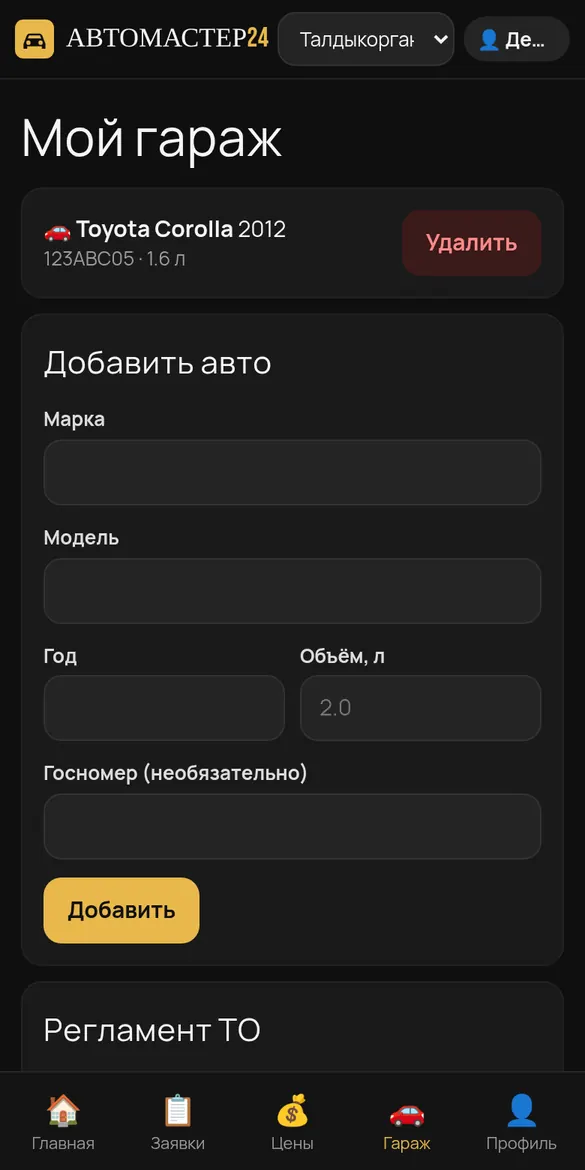
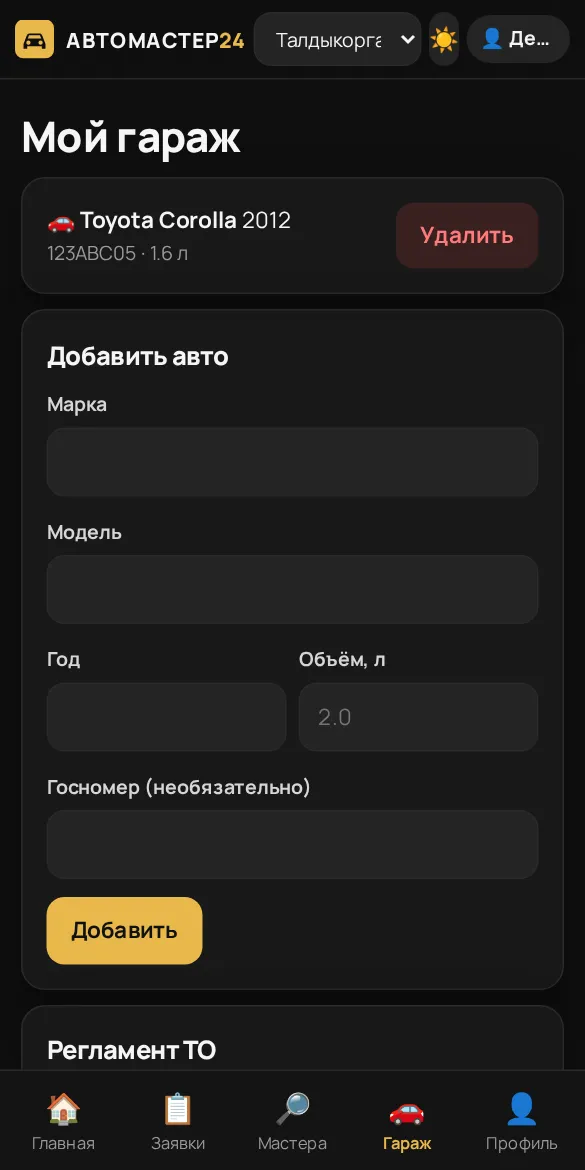
Сайт с пояснениями: новые возможности (фото, чат, страница мастера, фильтры, установка как приложение), новые скриншоты, FAQ

diff --git a/index.html b/index.html
@@ -341,10 +341,10 @@ footer nav{display:flex;flex-wrap:wrap;gap:8px 20px}
         <div class="panel" id="p-cl" role="tabpanel" aria-labelledby="t-cl">
           <ol class="steps">
             <li class="step"><span class="n">1</span><div><h3>Войдите через Telegram <button class="tip" type="button" data-tip="Кнопка <b>«Войти»</b> вверху сайта. Telegram передаёт только имя, username и ID аккаунта — пароль не нужен. Затем в профиле укажите город и телефон.">?</button></h3><p>Один раз укажите свой город и телефон — их увидит только мастер, который примет вашу заявку.</p></div></li>
-            <li class="step"><span class="n">2</span><div><h3>Выберите услугу и опишите проблему</h3><p>Например: «стук спереди справа на кочках». Можно выбрать машину из своего <button class="term" type="button" data-tip="<b>Гараж</b> — ваши автомобили на сайте. Добавьте машину один раз, и она будет подставляться в заявки автоматически.">гаража</button>, чтобы не вводить её каждый раз.</p></div></li>
+            <li class="step"><span class="n">2</span><div><h3>Выберите услугу, опишите проблему и приложите фото</h3><p>Например: «стук спереди справа на кочках» — или просто напишите это в поиске на главной, сайт подскажет нужную услугу. До 5 фото помогут мастеру сразу оценить работу. Для СТО можно выбрать день и время. Можно выбрать машину из своего <button class="term" type="button" data-tip="<b>Гараж</b> — ваши автомобили на сайте. Добавьте машину один раз, и она будет подставляться в заявки автоматически.">гаража</button>, чтобы не вводить её каждый раз.</p></div></li>
             <li class="step"><span class="n">3</span><div><h3>Отправьте одному мастеру или <button class="term" type="button" data-tip="<b>«Всем в городе»</b> — заявку увидят все подходящие исполнители вашего города, и первый свободный её примет. Или выберите конкретное СТО из каталога, если уже знаете, куда ехать.">всем в городе</button></h3><p>Нажмите <span class="ui">Отправить заявку</span>. Заявка активна 60 минут (запчасти — 3 часа).</p></div></li>
-            <li class="step"><span class="n">4</span><div><h3>Мастер принимает — вы видите его контакты</h3><p>Статус заявки меняется на «В работе», появляются имя, телефон и адрес мастера. Если за 5 минут никто не ответил, сайт покажет список контактов, чтобы позвонить самому.</p></div></li>
-            <li class="step"><span class="n">5</span><div><h3>Оцените работу от 1 до 5 <button class="tip" type="button" data-tip="Оставить отзыв можно только по своей заявке. Отзывы проверяет администратор, поэтому рейтинг мастеров честный.">?</button></h3><p>Ваша оценка помогает другим водителям выбрать хорошего мастера.</p></div></li>
+            <li class="step"><span class="n">4</span><div><h3>Мастер принимает — открываются контакты и чат <button class="tip" type="button" data-tip="<b>Чат по заявке</b> — переписка только между вами и мастером, который взял заявку. Удобно уточнить время, цену или прислать детали.">?</button></h3><p>Шкала статуса показывает, на каком этапе заявка. Появляются имя, телефон, WhatsApp и адрес мастера, а также чат. Если за 5 минут никто не ответил, сайт покажет список контактов, чтобы позвонить самому.</p></div></li>
+            <li class="step"><span class="n">5</span><div><h3>Оцените работу от 1 до 5 <button class="tip" type="button" data-tip="Оставить отзыв можно только по своей заявке. Отзывы проверяет администратор, поэтому рейтинг мастеров честный. Мастер может публично ответить на отзыв.">?</button></h3><p>Ваша оценка помогает другим водителям выбрать хорошего мастера. Понравилось — в один клик <span class="ui">🔁 Повторить заявку</span>.</p></div></li>
           </ol>
           <div class="cta"><a class="btn btn-d" href="https://avtomaster24bot-lab.github.io/avtomaster24-web/#/new/sto">Создать заявку</a></div>
         </div>
@@ -354,8 +354,8 @@ footer nav{display:flex;flex-wrap:wrap;gap:8px 20px}
             <li class="step"><span class="n">1</span><div><h3>Войдите через Telegram</h3><p>Так же, как клиенты: кнопка <span class="ui">Войти</span> вверху сайта.</p></div></li>
             <li class="step"><span class="n">2</span><div><h3>Откройте «Для бизнеса» и заполните анкету <button class="tip" type="button" data-tip="Тип бизнеса (СТО, мойка, эвакуатор, магазин запчастей, выездная помощь), название, город, адрес, телефон и ваши направления работ.">?</button></h3><p>Пара минут: кто вы, где находитесь и какие работы выполняете.</p></div></li>
             <li class="step"><span class="n">3</span><div><h3>Администратор проверяет заявку</h3><p>После одобрения в меню появится раздел <span class="ui">🛠 Кабинет</span>, а ваша организация — в каталоге города.</p></div></li>
-            <li class="step"><span class="n">4</span><div><h3>Принимайте заявки в <button class="term" type="button" data-tip="<b>Кабинет исполнителя</b> — ваша рабочая страница. Лента новых заявок <b>обновляется сама каждые 20 секунд</b>. Держите вкладку открытой, чтобы не пропустить клиентов.">кабинете</button></h3><p>Кнопки <span class="ui">✅ Принять</span>, <span class="ui">Отклонить</span> и <span class="ui">Завершить</span>. После принятия вы видите телефон клиента.</p></div></li>
-            <li class="step"><span class="n">5</span><div><h3>Ведите свой прайс и собирайте отзывы</h3><p>Ваши цены показываются клиентам в калькуляторе с кнопкой «Записаться». Хорошие оценки поднимают вас выше.</p></div></li>
+            <li class="step"><span class="n">4</span><div><h3>Принимайте заявки в <button class="term" type="button" data-tip="<b>Кабинет исполнителя</b> — ваша рабочая страница. Лента новых заявок <b>обновляется сама каждые 20 секунд</b>. Держите вкладку открытой, чтобы не пропустить клиентов.">кабинете</button></h3><p>Кнопки <span class="ui">✅ Принять</span>, <span class="ui">Отклонить</span> и <span class="ui">Завершить</span>. После принятия вы видите телефон клиента и можете написать ему в чат. К заявкам бывают приложены фото.</p></div></li>
+            <li class="step"><span class="n">5</span><div><h3>Оформите профиль, ведите прайс, отвечайте на отзывы</h3><p>Добавьте фото, описание, часы работы и WhatsApp. Цены показываются в калькуляторе и на вашей странице («от … ₸»). После проверки администратор ставит отметку <span class="ui">✔ Проверен</span>.</p></div></li>
           </ol>
           <div class="cta"><a class="btn btn-d" href="https://avtomaster24bot-lab.github.io/avtomaster24-web/#/business">Подключить бизнес</a></div>
         </div>
@@ -374,11 +374,15 @@ footer nav{display:flex;flex-wrap:wrap;gap:8px 20px}
   <div class="wrap center">
     <span class="eyebrow">Что есть в сервисе</span>
     <h2>Всё для машины — в одном месте</h2>
-    <p class="lead">Сервис открывается на телефоне и компьютере. Его можно добавить на главный экран телефона, как приложение.</p>
+    <p class="lead">Сервис открывается на телефоне и компьютере. Его можно установить на телефон как приложение — кнопка «📲 Установить» в профиле.</p>
   </div>
   <div class="wrap">
     <div class="feat">
-      <div class="f reveal"><div class="i">📋</div><h3>Мои заявки</h3><p>Все обращения и их статусы: отправлена, принята, выполнена. История сохраняется.</p></div>
+      <div class="f reveal"><div class="i">📷</div><h3>Фото к заявке</h3><p>До 5 фото поломки или нужной детали. Их видят только подходящие мастера.</p></div>
+      <div class="f reveal"><div class="i">💬</div><h3>Чат с мастером <button class="tip" type="button" data-tip="Чат открывается, когда мастер взял заявку. Сообщения приходят сразу, без перезагрузки страницы.">?</button></h3><p>Уточните время, цену и детали прямо в заявке — без лишних звонков.</p></div>
+      <div class="f reveal"><div class="i">🔎</div><h3>Поиск и фильтры</h3><p>«Открыто сейчас», «Проверенные», рейтинг 4+, сортировка по цене. Избранные мастера — в одно касание.</p></div>
+      <div class="f reveal"><div class="i">🏢</div><h3>Страница мастера</h3><p>Фото, описание, часы работы, адрес на 2ГИС, сколько заявок выполнено и как быстро отвечает.</p></div>
+      <div class="f reveal"><div class="i">📋</div><h3>Мои заявки</h3><p>Шкала статуса по каждой заявке, история и кнопка «Повторить заявку».</p></div>
       <div class="f reveal"><div class="i">💰</div><h3>Калькулятор цен</h3><p>Цена по услуге и марке авто: прайсы СТО города и справочные цены.</p></div>
       <div class="f reveal"><div class="i">🚗</div><h3>Гараж и <button class="term" type="button" data-tip="<b>Регламент ТО</b> — когда менять масло, фильтры, ремень ГРМ, антифриз и другое: по пробегу и по времени.">регламент ТО</button></h3><p>Добавьте свои машины — сайт подскажет, когда пора менять масло, фильтры и ремень ГРМ.</p></div>
       <div class="f reveal"><div class="i">📒</div><h3>Каталог исполнителей</h3><p>Список СТО, моек, эвакуаторов и магазинов города с рейтингом и отзывами.</p></div>
@@ -392,6 +396,8 @@ footer nav{display:flex;flex-wrap:wrap;gap:8px 20px}
       <figure><img src="assets/app-prices.webp" alt="Калькулятор цен" loading="lazy" width="585" height="1170"><figcaption>Цены</figcaption></figure>
       <figure><img src="assets/app-garage.webp" alt="Гараж" loading="lazy" width="585" height="1170"><figcaption>Гараж</figcaption></figure>
       <figure><img src="assets/app-cabinet.webp" alt="Кабинет исполнителя" loading="lazy" width="585" height="1170"><figcaption>Кабинет мастера</figcaption></figure>
+      <figure><img src="assets/app-chat.webp" alt="Чат с мастером" loading="lazy" width="585" height="1170"><figcaption>Чат по заявке</figcaption></figure>
+      <figure><img src="assets/app-provider.webp" alt="Страница мастера" loading="lazy" width="585" height="1170"><figcaption>Страница мастера</figcaption></figure>
     </div>
   </div>
 </section>
@@ -407,7 +413,8 @@ footer nav{display:flex;flex-wrap:wrap;gap:8px 20px}
         <li><span class="i">🆓</span><div><b>Бесплатное подключение</b><p>Анкета «Для бизнеса» заполняется за пару минут, без бумаг.</p></div></li>
         <li><span class="i">⚡</span><div><b>Живая лента заявок <button class="tip" type="button" data-tip="Новые заявки появляются в кабинете автоматически — лента обновляется каждые 20 секунд.">?</button></b><p>Заявки вашего города по вашим направлениям — в одном списке.</p></div></li>
         <li><span class="i">🧾</span><div><b>Свой прайс</b><p>Укажите цены на работы — клиенты увидят их в калькуляторе и смогут записаться.</p></div></li>
-        <li><span class="i">⭐</span><div><b>Рейтинг и отзывы</b><p>Только от реальных клиентов, после выполненной заявки.</p></div></li>
+        <li><span class="i">⭐</span><div><b>Рейтинг, отзывы и ответы на них</b><p>Только от реальных клиентов, после выполненной заявки. Отвечайте публично — это повышает доверие.</p></div></li>
+        <li><span class="i">📸</span><div><b>Профиль с фото и чат с клиентом</b><p>Фото сервиса, описание, WhatsApp, статистика выполненных заявок. Детали заказа обсуждайте в чате.</p></div></li>
       </ul>
       <div class="cta"><a class="btn btn-y" href="https://avtomaster24bot-lab.github.io/avtomaster24-web/#/business">🔧 Подключить бизнес</a></div>
     </div>
@@ -424,7 +431,7 @@ footer nav{display:flex;flex-wrap:wrap;gap:8px 20px}
     <span class="eyebrow">Почему это удобно и безопасно</span>
     <h2>Честные правила для всех</h2>
     <div class="trust">
-      <div class="t reveal"><div class="i">✅</div><h3>Проверенные исполнители</h3><p>Каждую организацию одобряет администратор, прежде чем она начнёт получать заявки.</p></div>
+      <div class="t reveal"><div class="i">✅</div><h3>Проверенные исполнители</h3><p>Каждую организацию одобряет администратор, прежде чем она начнёт получать заявки. После проверки адреса и документов появляется отметка «✔ Проверен».</p></div>
       <div class="t reveal"><div class="i">🔒</div><h3>Ваш телефон защищён</h3><p>Номер клиента открывается только тому мастеру, который принял заявку.</p></div>
       <div class="t reveal"><div class="i">🕵</div><h3>Анонимные цены на запчасти</h3><p>Продавцы не знают друг о друге и конкурируют ценой, а не звонками.</p></div>
       <div class="t reveal"><div class="i">⭐</div><h3>Реальные отзывы</h3><p>Отзыв можно оставить только по своей заявке, и он проходит модерацию.</p></div>
@@ -441,7 +448,9 @@ footer nav{display:flex;flex-wrap:wrap;gap:8px 20px}
   <div class="wrap">
     <div class="faq">
       <details><summary>Сколько стоит пользоваться сервисом?</summary><div class="a">Регистрация и отправка заявок бесплатны. Стоимость самой работы вы обсуждаете напрямую с исполнителем; ориентир можно посмотреть в <a href="https://avtomaster24bot-lab.github.io/avtomaster24-web/#/prices">калькуляторе цен</a>.</div></details>
-      <details><summary>Нужно ли что-то устанавливать?</summary><div class="a">Нет. Сервис работает в браузере на телефоне и компьютере. Если хотите, добавьте его на главный экран телефона: в меню браузера выберите «Добавить на главный экран».</div></details>
+      <details><summary>Нужно ли что-то устанавливать?</summary><div class="a">Нет. Сервис работает в браузере на телефоне и компьютере. Если хотите, установите его как приложение: кнопка «📲 Установить приложение» в профиле или «Добавить на главный экран» в меню браузера. Есть светлая и тёмная тема.</div></details>
+      <details><summary>Можно ли переписываться с мастером?</summary><div class="a">Да. Когда мастер взял заявку, в ней появляется кнопка «💬 Чат». Переписку видите только вы и этот мастер. Не отправляйте в чат данные банковских карт и коды из SMS.</div></details>
+      <details><summary>Можно ли приложить фото?</summary><div class="a">Да, до 5 фото к любой заявке. Фото сжимаются в браузере и хранятся закрыто: их видят только вы и исполнители, которым показывается ваша заявка.</div></details>
       <details><summary>Зачем входить через Telegram?</summary><div class="a">Так не нужен пароль и не нужно ждать SMS. Telegram передаёт сайту только ваше имя, username и ID аккаунта. Телефон и город вы указываете сами в профиле.</div></details>
       <details><summary>В каких городах работает?</summary><div class="a">Город выбирается вверху сайта: Алматы, Астана, Шымкент, Караганда, Талдыкорган, Актобе, Тараз, Павлодар, Семей, Атырау, Усть-Каменогорск. Список исполнителей в каждом городе пополняется — если в вашем пока пусто, отправьте заявку «всем в городе» или пригласите знакомого мастера.</div></details>
       <details><summary>Что будет, если никто не ответит?</summary><div class="a">Через 5 минут без ответа сайт покажет контакты исполнителей, чтобы вы могли позвонить сами. Заявка остаётся активной 60 минут, по запчастям — 3 часа.</div></details>
